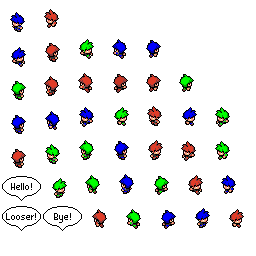
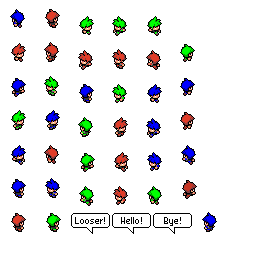
Changed speak animation.

diff --git a/core/src/eagea/nodeio/model/Model.java b/core/src/eagea/nodeio/model/Model.java
@@ -162,6 +162,17 @@ public class Model
             mPlayer = mPlayers.get(mPlayers.getNbPlayers() - 1);
             // Start rendering.
             mGameScreen.onModelIsReady(this);
+            // Auto-disconnection.
+            Runtime.getRuntime().addShutdownHook(new Thread(
+                    () ->
+                    {
+                        if (mState == State.START)
+                        {
+                            askForDisconnection();
+                        }
+                    }
+                )
+            );
         }
         else
         {

diff --git a/core/src/eagea/nodeio/view/object/player/PlayerV.java b/core/src/eagea/nodeio/view/object/player/PlayerV.java
@@ -23,8 +23,9 @@ public class PlayerV implements Observer
 {
     public static final float WIDTH_CHAR = 2f;
     public static final float HEIGHT_CHAR = 2f;
+
     public static final float WIDTH_SPEAK = 2f;
-    public static final float HEIGHT_SPEAK = 1.39f;
+    public static final float HEIGHT_SPEAK = 1.3f;
 
     // Animation number of frames.
     private final int FRAMES_PER_ANIMATION = 4;

diff --git a/core/src/eagea/nodeio/view/object/hud/Speak.java b/core/src/eagea/nodeio/view/object/hud/Speak.java
@@ -16,8 +16,8 @@ public class Speak
 {
     private final float SPACE_HORIZONTAL_ICONS = 0.75f;
 
-    private final float ICON_WIDTH = 2.1f;
-    private final float ICON_HEIGHT = 1.5f;
+    private final float ICON_WIDTH = 2f;
+    private final float ICON_HEIGHT = 1.3f;
 
     // Parent.
     private final View mView;

diff --git a/core/src/eagea/nodeio/view/object/hud/Exit.java b/core/src/eagea/nodeio/view/object/hud/Exit.java
@@ -2,7 +2,6 @@ package eagea.nodeio.view.object.hud;
 
 import com.badlogic.gdx.Gdx;
 import com.badlogic.gdx.graphics.g2d.TextureRegion;
-import com.badlogic.gdx.math.Rectangle;
 import com.badlogic.gdx.math.Vector2;
 
 import eagea.nodeio.GameScreen;
